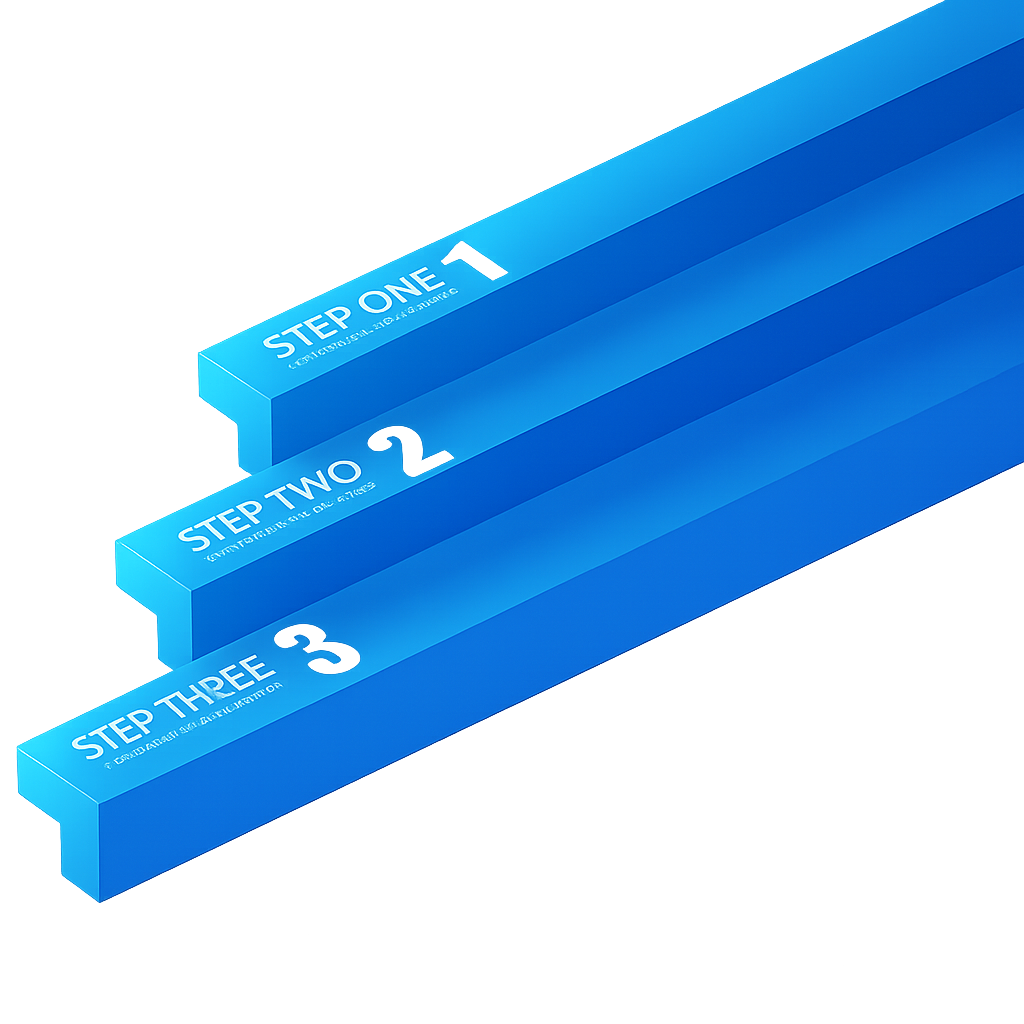
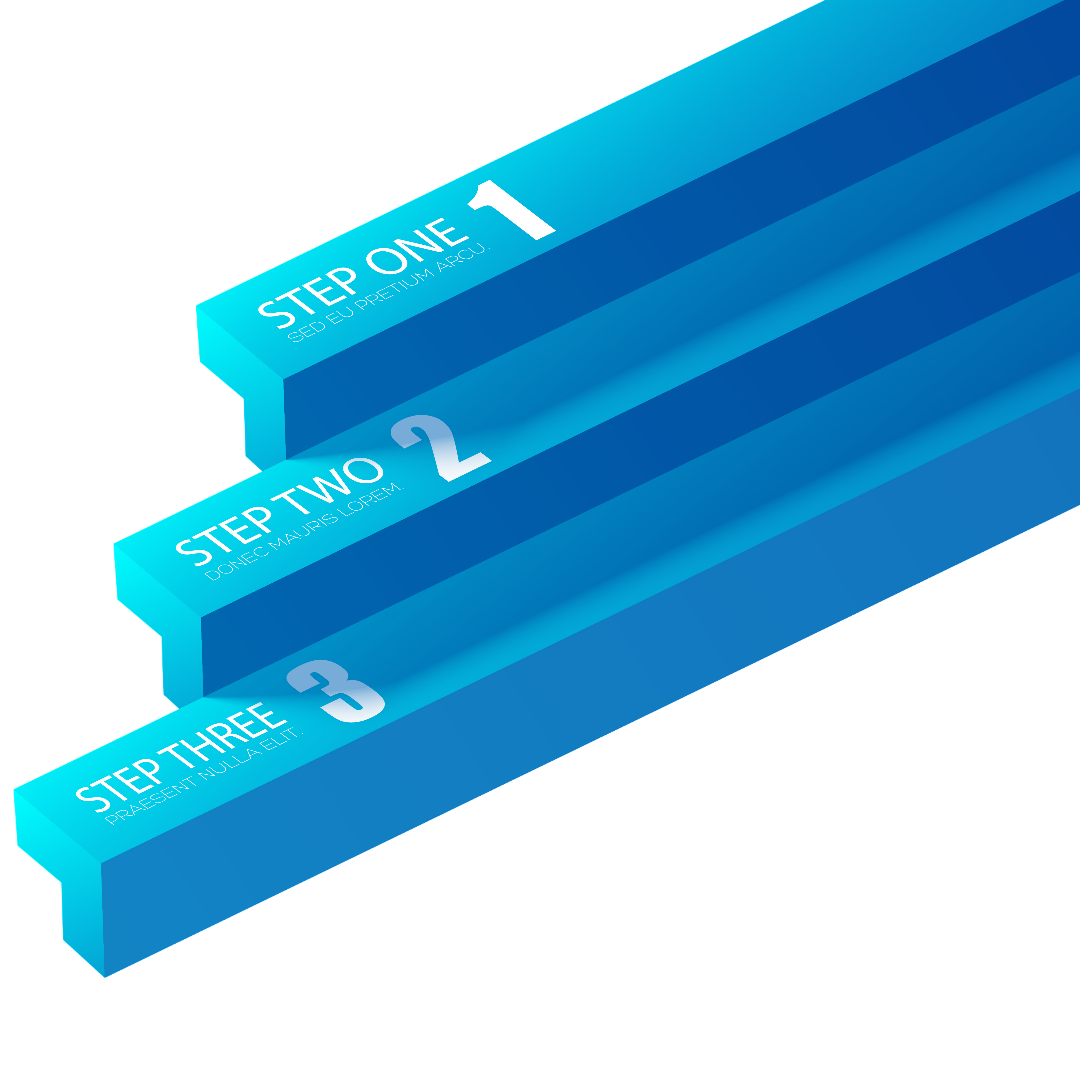
all

diff --git a/pages/L2.html b/pages/L2.html
@@ -111,7 +111,7 @@
 
       <tr>
         <td align="center" width="50%" bgcolor="000919">
-          <table border="1" height="100px" cellspacing="0">
+          <table border="1" height="100px" bgcolor="000919" cellspacing="0">
             <tr>
               <td>
                 <font color="EFFOF2" size="10px" face="Fira Code,sans-serif"
@@ -161,7 +161,7 @@
 
         <td bgcolor="#OA6ED3" width="5%"><br /></td>
 
-        <td bgcolor="#OA6ED3" align="left" width="50%" id="Steps">
+        <td bgcolor="#OA6ED3" align="left" width="40%" id="Steps">
           <font color="EFFOF2" face="Montserrat,sans-serif" size="5"
             ><h1>Steps In Applying Background Color CSS Property</h1></font
           >
@@ -212,6 +212,7 @@
             </ol>
           </font>
         </td>
+        <td colspan="2" bgcolor="#OA6ED3" width="4%"></td>
       </tr>
     </table>
     <br />
@@ -253,6 +254,7 @@
                   <center>Note: Refresh the page to see the result!</center>
                 </font>
               </td>
+              <td colspan="2" width="5%" bgcolor="EFFOF2"></td>
             </tr>
           </table>
         </td>

diff --git a/pages/L3.html b/pages/L3.html
@@ -110,7 +110,7 @@
 
       <tr>
         <td align="center" width="50%" bgcolor="000919">
-          <table border="1" height="100px" cellspacing="0">
+          <table border="1" bgcolor="000919" height="100px" cellspacing="0">
             <tr>
               <td>
                 <font color="EFFOF2" size="10px" face="Fira Code,sans-serif"
@@ -138,7 +138,7 @@
 
         <td bgcolor="#OA6ED3" width="5%"><br /></td>
 
-        <td bgcolor="#OA6ED3" align="left" width="50%" id="Steps">
+        <td bgcolor="#OA6ED3" align="left" width="40%" id="Steps">
           <font color="EFFOF2" face="Montserrat,sans-serif" size="5"
             ><h1>
               Steps In Applying Padding and Margin Color CSS Property
@@ -176,6 +176,7 @@
             </ol>
           </font>
         </td>
+        <td colspan="2" bgcolor="#OA6ED3" width="4%"></td>
       </tr>
     </table>
     <br />
@@ -225,6 +226,7 @@
                   <center>Note: Refresh the page to see the result!</center>
                 </font>
               </td>
+              <td colspan="2" width="5%" bgcolor="EFFOF2"></td>
             </tr>
           </table>
         </td>

diff --git a/pages/L1.html b/pages/L1.html
@@ -104,7 +104,7 @@
 
       <tr>
         <td align="center" width="50%" bgcolor="000919">
-          <table border="1" height="100px" cellspacing="0">
+          <table border="1" height="100px" bgcolor="000919" cellspacing="0">
             <tr>
               <td>
                 <font color="EFFOF2" size="10px" face="Fira Code,sans-serif"
@@ -162,7 +162,7 @@
 
         <td bgcolor="#OA6ED3" width="5%"><br /></td>
 
-        <td bgcolor="#OA6ED3" align="left" width="50%" id="Steps">
+        <td bgcolor="#OA6ED3" align="left" width="40%" id="Steps">
           <font color="EFFOF2" face="Montserrat,sans-serif" size="5"
             ><h1>Steps In Creating And Connecting CSS file</h1></font
           >
@@ -198,6 +198,7 @@
             </ol>
           </font>
         </td>
+        <td colspan="2" bgcolor="#OA6ED3" width="4%"></td>
       </tr>
     </table>
     <br />
@@ -238,6 +239,7 @@
                   </ol>
                 </font>
               </td>
+              <td colspan="2" width="5%" bgcolor="EFFOF2"></td>
             </tr>
           </table>
         </td>

diff --git a/pages/L4.html b/pages/L4.html
@@ -128,7 +128,7 @@
 
         <td bgcolor="#OA6ED3" width="5%"><br /></td>
 
-        <td bgcolor="#OA6ED3" align="left" width="50%" id="Steps">
+        <td bgcolor="#OA6ED3" align="left" width="40%" id="Steps">
           <font color="EFFOF2" face="Montserrat,sans-serif" size="5"
             ><h1>Steps In Applying Border Radius CSS Property</h1></font
           >
@@ -156,6 +156,7 @@
             </ol>
           </font>
         </td>
+        <td colspan="2" bgcolor="#OA6ED3" width="4%"></td>
       </tr>
     </table>
     <br />
@@ -204,6 +205,7 @@
                   <center>Note: Refresh the page to see the result!</center>
                 </font>
               </td>
+              <td colspan="2" width="5%" bgcolor="EFFOF2"></td>
             </tr>
           </table>
         </td>

diff --git a/pages/L5.html b/pages/L5.html
@@ -137,7 +137,7 @@
 
         <td bgcolor="#OA6ED3" width="5%"><br /></td>
 
-        <td bgcolor="#OA6ED3" align="left" width="50%" id="Steps">
+        <td bgcolor="#OA6ED3" align="left" width="40%" id="Steps">
           <font color="EFFOF2" face="Montserrat,sans-serif" size="5"
             ><h1>Steps In Applying Shadow Text/Box</h1></font
           >
@@ -171,6 +171,7 @@
             </ol>
           </font>
         </td>
+        <td colspan="2" bgcolor="#OA6ED3" width="4%"></td>
       </tr>
     </table>
     <br />
@@ -220,6 +221,7 @@
                   <center>Note: Refresh the page to see the result!</center>
                 </font>
               </td>
+              <td colspan="2" width="5%" bgcolor="EFFOF2"></td>
             </tr>
           </table>
         </td>

diff --git a/index.html b/index.html
@@ -101,7 +101,8 @@
         <td align="center" width="50%" bgcolor="000919">
           <img src="images/homeimages/CSSmodel.png" width="75%" alt="" />
         </td>
-        <td bgcolor="#OA6ED3" align="center" width="50%" id="AboutCSS">
+        <td colspan="2" bgcolor="#OA6ED3" width="2%"></td>
+        <td bgcolor="#OA6ED3" align="center" width="45%" id="AboutCSS">
           <font color="EFFOF2" face="Montserrat,sans-serif" size="5"
             ><h1>Cascading Style Sheets <br />(CSS)</h1></font
           >
@@ -113,6 +114,7 @@
             </p>
           </font>
         </td>
+        <td colspan="2" bgcolor="#OA6ED3" width="4%"></td>
       </tr>
     </table>
     <br />
